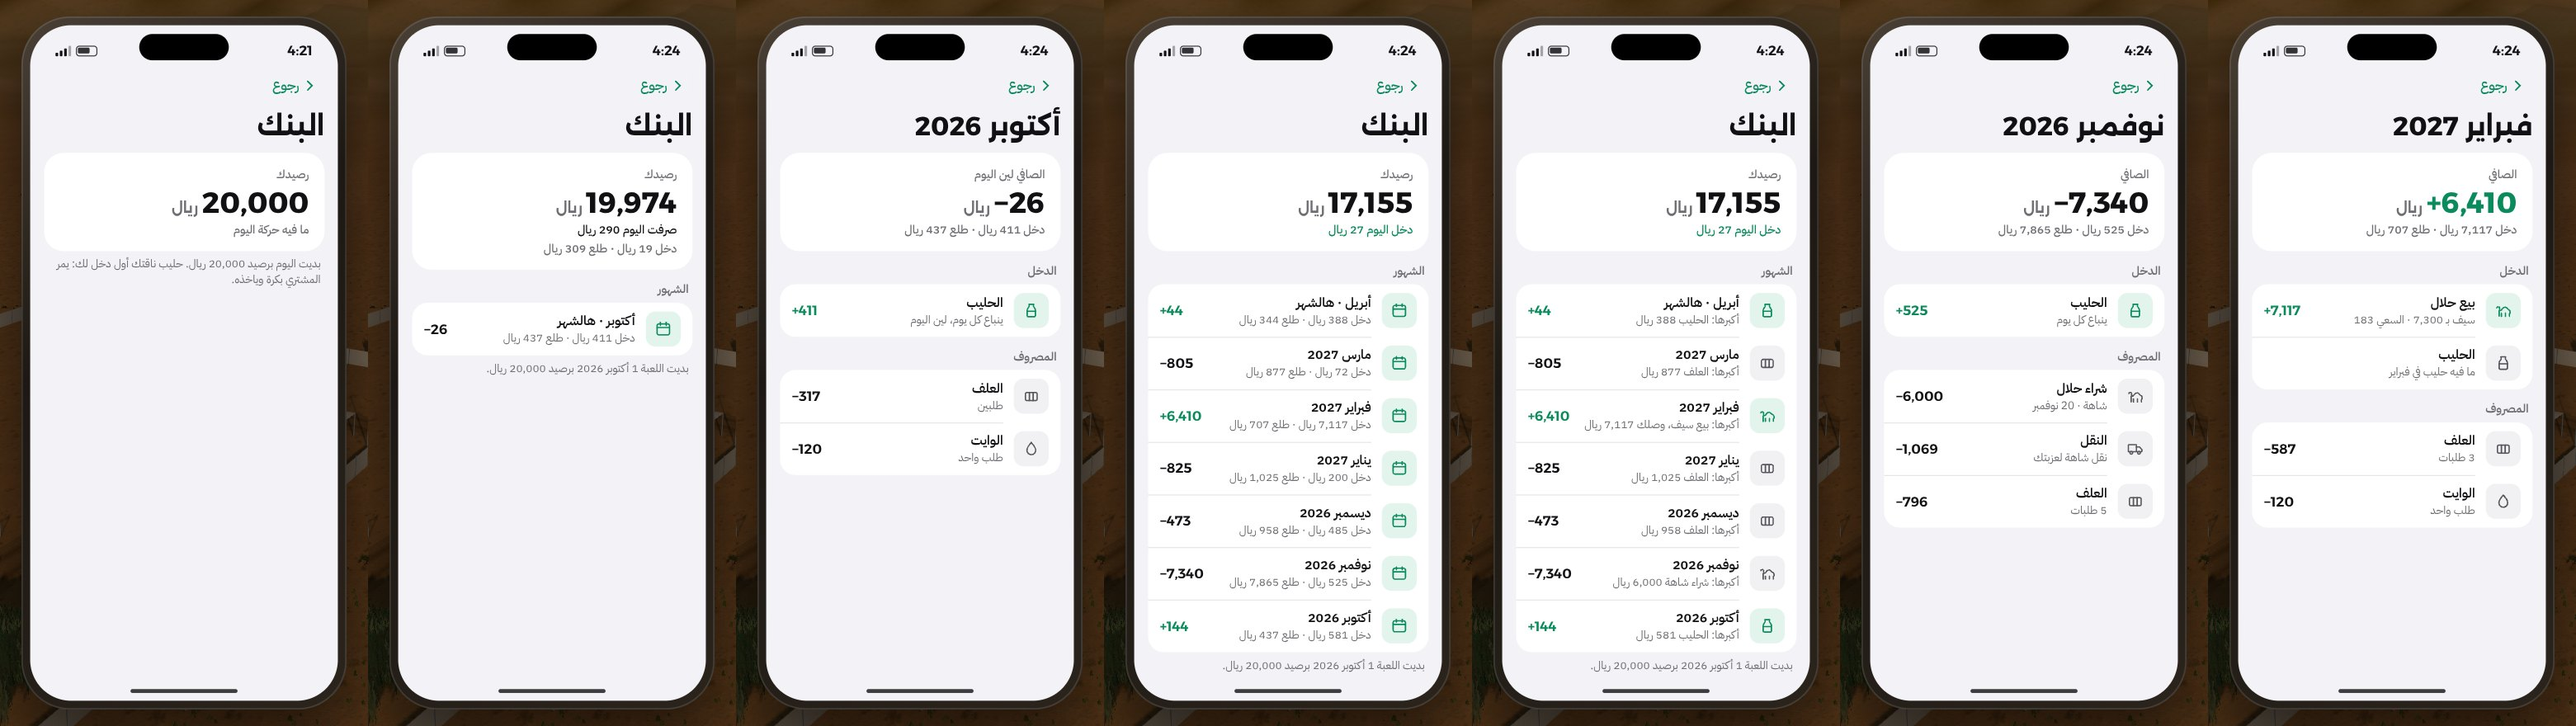
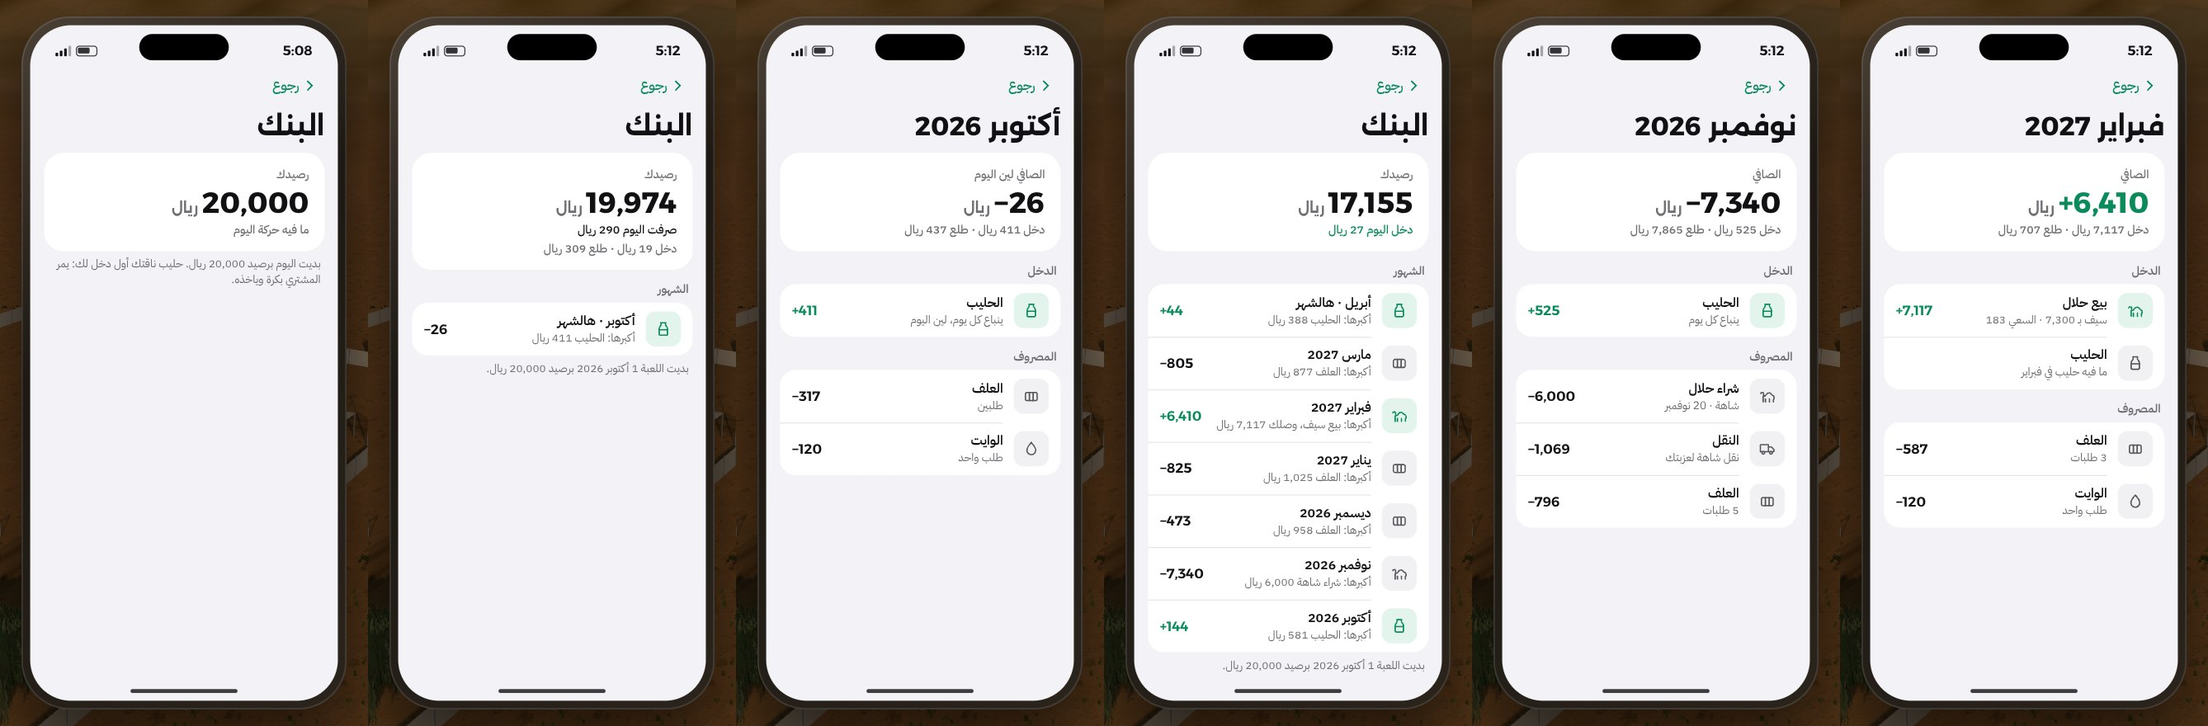
Bank design adopted: option B only; GDD and prototype README
phone_bank.jpg redrawn with the adopted screens only (each month by its
biggest movement on every main screen; the in-and-out rows dropped), the
README row from awaiting to approved (13 Nov 2026). The GDD's decisions
table and the prototype's README say what is built.

Claude-Session: https://claude.ai/code/session_01MLonhqocXpQK4avaG2Yu99

diff --git a/design/ui/README.md b/design/ui/README.md
@@ -9,7 +9,7 @@ These mockups were reviewed by agents and approved by the owner. Only the inform
 | `phone_supplies.html`, `phone_supplies_water.jpg`, `phone_supplies_feed.jpg` | الوايت and العلف in the phone, and the home screen's date and season (approved 2026-11-12). Add `&big=1` to see a screen as the game enlarges it. |
 | `phone_start_home.jpg`, `phone_start_milk.jpg`, `phone_start_build.jpg` (drawn by `phone_start.cjs`) | The new start (one nursing she-camel and her calf, SAR 20,000): the home screen with الحليب, العزبة and الحراج, the milk app (sold every day; how much is left for the calf) and the farm app (what you have, and the facilities you can buy and their prices), approved 2026-11-13. |
 | `phone_haraj.jpg` (drawn by `phone_haraj.cjs` with `phone_haraj.css`) | الحراج on the engine: the listings, a camel's page (buy, or haggle three times a seller), selling one's own camel (listed at one's price or to the broker now), and one's listings with their offers; the old design's «على السوم» tab and live auction left out (every listing takes offers; the auctions come later), approved 2026-11-13. |
-| `phone_bank.jpg` (drawn by `phone_bank.cjs` with `phone_bank.css`, its figures from `phone_bank_data.dart`, dumped to `phone_bank.json`) | **Awaiting the owner's approval.** البنك on the engine's own ledger (a new game, seed 4242, played forward by the engine): the main screen on day one, on 22 October after a day of money both ways (the net first in the home widget's words, then what came in and went out) and six and a half months in (each month's in, out and net; beside it the alternative, each month naming its biggest movement), and a month opened by kind: October, November (a camel bought and trucked) and February (the calf sold, shown as what reached the player after السعي; no milk). The approved design's تحويل, طلب مبلغ, الرواتب and الكشف are left out: the engine has no transfers, wages are taken on the 1st by themselves, and the months are the statement. |
+| `phone_bank.jpg` (drawn by `phone_bank.cjs` with `phone_bank.css`, its figures from `phone_bank_data.dart`, dumped to `phone_bank.json`) | البنك on the engine's own ledger (a new game, seed 4242, played forward by the engine): the main screen on day one, on 22 October after a day of money both ways (the net in the home widget's words, the split under it) and six and a half months in (each month's net and its biggest movement, «أكبرها: …»), and a month opened by kind: October, November (a camel bought and trucked) and February (the calf sold, shown as what reached the player with its price and السعي; no milk). Approved 2026-11-13 with the month rows by their biggest movement (option B; the in-and-out rows dropped) and السعي folded into its sale; built in the phone. The approved mock's تحويل, طلب مبلغ, الرواتب and الكشف are left out: the engine has no transfers, wages are taken on the 1st by themselves, and the months are the statement. |
 
 ## The map HUD
 

diff --git a/docs/GDD.md b/docs/GDD.md
@@ -36,6 +36,7 @@
 | الجوال | يعرض لعبة اللاعب بس، والتطبيقات تطلع وحدة وحدة لما تشتغل، ولما يتكبّر يصير نفس الجوال الصغير بس أكبر (قرار المالك 2026-11-13) |
 | تطبيقا الحليب والعزبة | التصميم في design/ui/phone_start_*.jpg معتمد، والحراج بتصميمه المعتمد من قبل بنياق اللعبة الحقيقية. أسعار المنشآت: شبك ثاني 12,000، مستودع علف 18,000، كرفان الراعي 25,000، بيت الشعر 15,000، الغرفة 60,000 **(اختيار لعب)**، وخزان 30 طن 14,110 **(واقعي)** (قرار المالك 2026-11-13) |
 | الحراج | التصميم في design/ui/phone_haraj.jpg معتمد: المعروض، وصفحة الناقة (تشتري، أو تسوم عليها 3 مرات)، وبيع ناقتك بالحراج بسعرك أو للدلال الحين، وإعلاناتي والسومات. والمزاد يجي بعدين (قرار المالك 2026-11-13) |
+| البنك | التصميم في design/ui/phone_bank.jpg معتمد ومبني: الرصيد، وحركة اليوم (الصافي بكلام الشاشة الرئيسية، واللي دخل واللي طلع تحته لو تحركت الفلوس بالاتجاهين)، والشهور كل شهر بصافيه وأكبر حركة فيه، والشهر لما تفتحه بالأنواع: الدخل والمصروف والصافي. السعي ينحسب مع بيعته (اللي وصلك بعد السعي)، والرواتب تنخصم أول الشهر بنفسها. ما فيه تحويل ولا قروض ولا فوايد (قرار المالك 2026-11-13) |
 
 ## 3. حلقة اللعب
 
